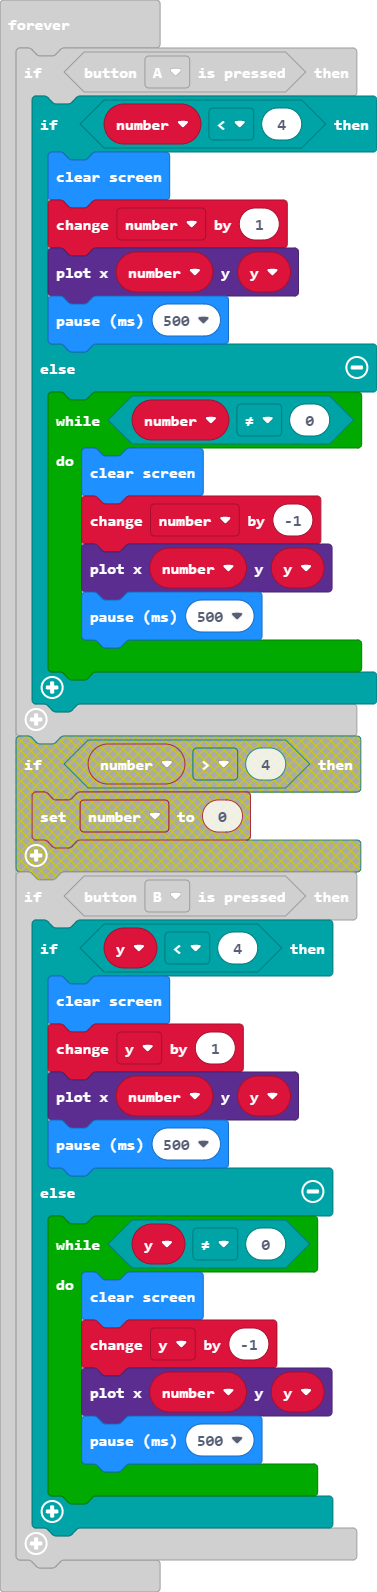
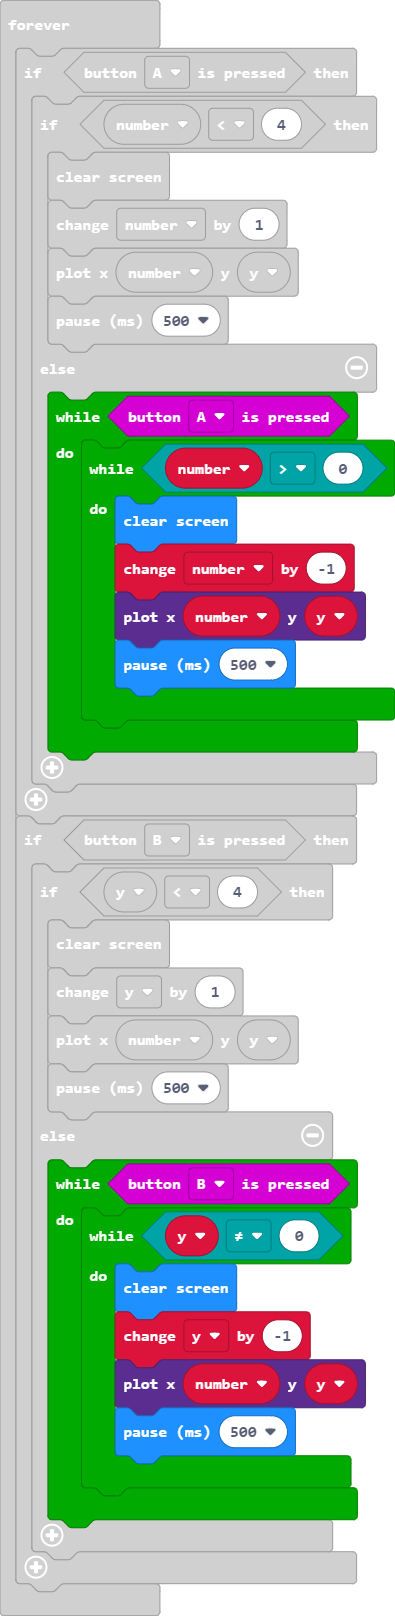
Update main.blocks, main.ts

diff --git a/main.ts b/main.ts
@@ -9,11 +9,13 @@ basic.forever(function () {
             led.plot(number, y)
             basic.pause(500)
         } else {
-            while (number != 0) {
-                basic.clearScreen()
-                number += -1
-                led.plot(number, y)
-                basic.pause(500)
+            while (input.buttonIsPressed(Button.A)) {
+                while (number > 0) {
+                    basic.clearScreen()
+                    number += -1
+                    led.plot(number, y)
+                    basic.pause(500)
+                }
             }
         }
     }
@@ -24,11 +26,13 @@ basic.forever(function () {
             led.plot(number, y)
             basic.pause(500)
         } else {
-            while (y != 0) {
-                basic.clearScreen()
-                y += -1
-                led.plot(number, y)
-                basic.pause(500)
+            while (input.buttonIsPressed(Button.B)) {
+                while (y != 0) {
+                    basic.clearScreen()
+                    y += -1
+                    led.plot(number, y)
+                    basic.pause(500)
+                }
             }
         }
     }
